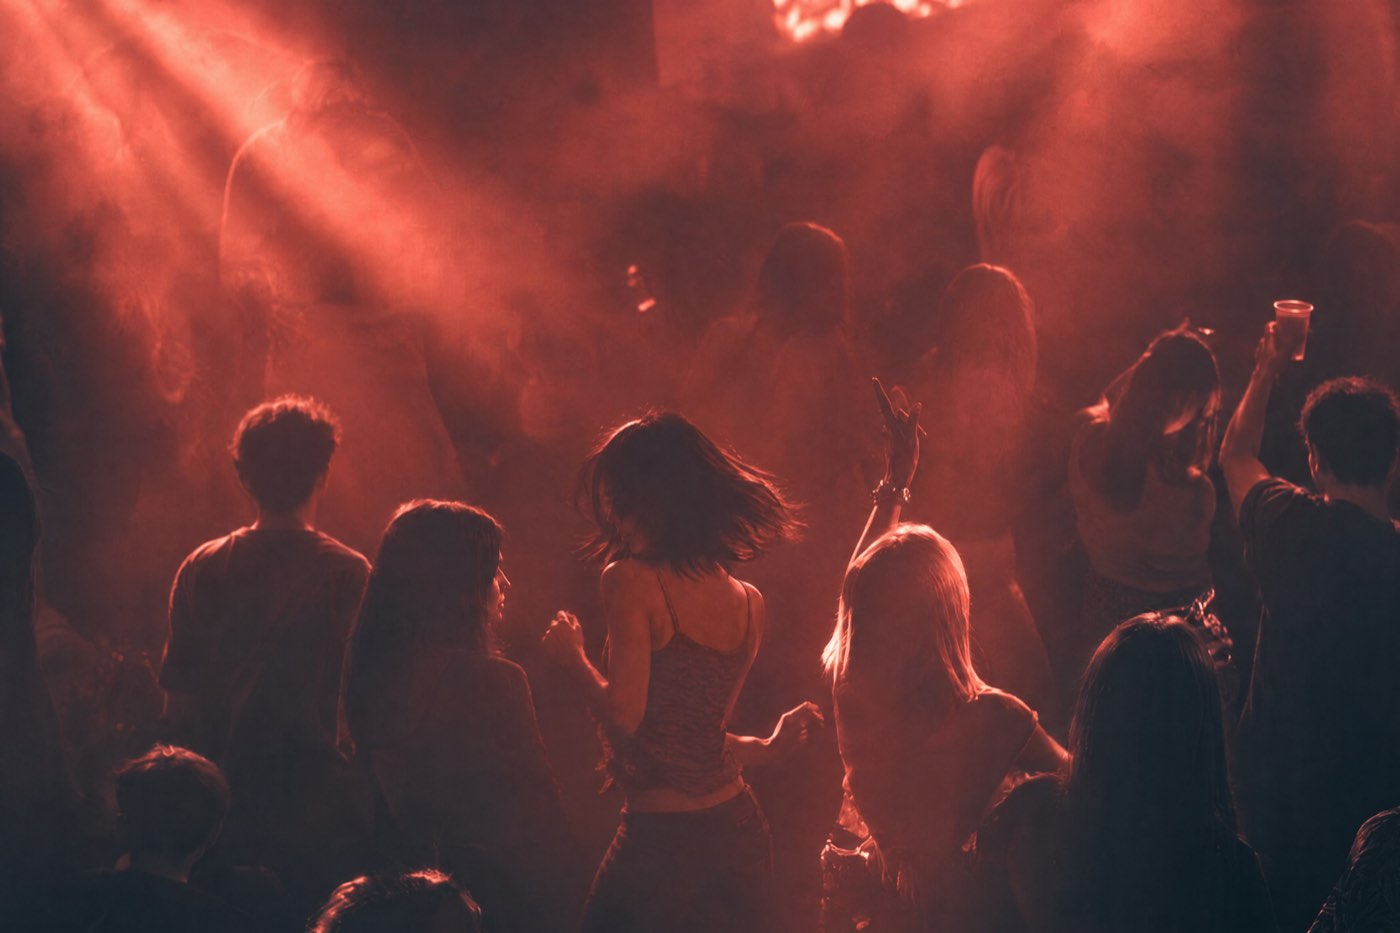
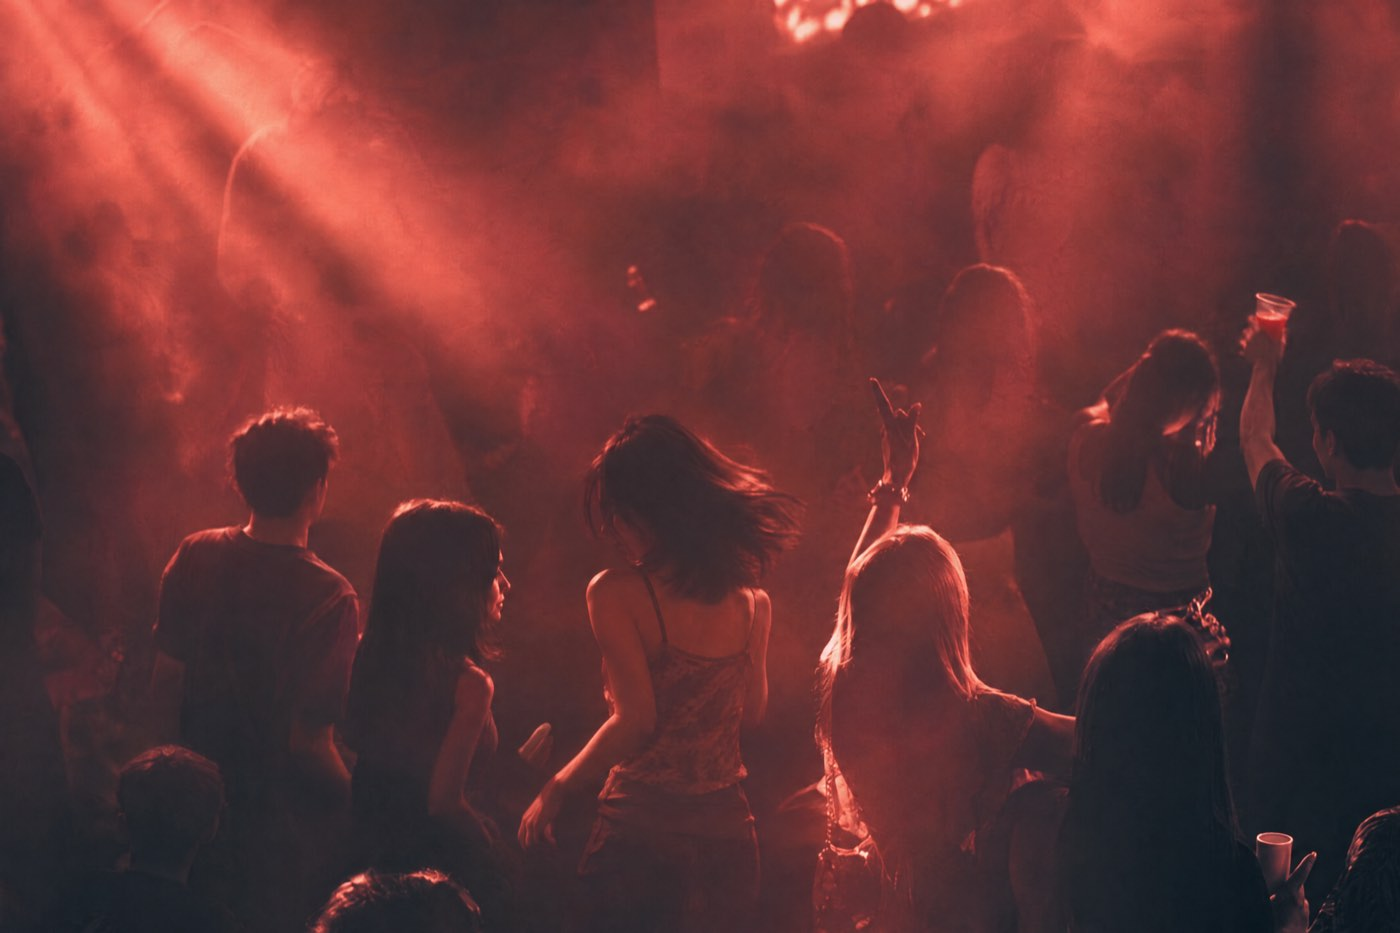
Auth cover option 1; like tip: 'Like profiles you respect'

diff --git a/src/translations/ja.js b/src/translations/ja.js
@@ -1168,7 +1168,7 @@ const ja = {
     unavailable: 'アシスタントは現在利用できません。後でもう一度お試しください。',
   },
   likeTip: {
-    likeArtist: 'ベニューやプロモーターに「いいね」すると、その活動へのリスペクトと、そこでプレイしたい気持ちが伝わります。相手に通知が届き、メッセージは不要です。',
+    likeArtist: 'リスペクトするプロフィールに「いいね」しましょう。プロモーターやベニューにとっては関心のサインになります。相手に通知が届き、メッセージは不要です。',
     likeBooker: 'アーティストに「いいね」すると興味が伝わり、チェックリストに残せます。年間プランなら、近くの日程が発表されたときに渡航アラートも届きます。',
     connectArtist: '「つながる」は短いメッセージ付きのリクエストです。承認されると、メッセージやピッチを送れます。',
     connectBooker: '「つながる」は短いメッセージ付きのリクエストです。承認されると、メッセージやオファーを送れます。',

diff --git a/src/translations/ko.js b/src/translations/ko.js
@@ -1168,7 +1168,7 @@ const ko = {
     unavailable: '어시스턴트를 지금은 사용할 수 없습니다. 나중에 다시 시도해 주세요.',
   },
   likeTip: {
-    likeArtist: '베뉴나 프로모터에게 좋아요를 누르면 그들의 활동을 높이 평가하고 그곳에서 공연할 의향이 있다는 뜻이 전해져요. 상대에게 알림이 가고, 메시지는 필요 없어요.',
+    likeArtist: '리스펙트하는 프로필에 좋아요를 눌러 보세요. 프로모터나 베뉴에게는 관심의 신호가 돼요. 상대에게 알림이 가고, 메시지는 필요 없어요.',
     likeBooker: '아티스트에게 좋아요를 누르면 관심이 전해지고 계속 지켜볼 수 있어요. 연간 플랜이면 근처 일정이 발표될 때 여행 알림도 받아요.',
     connectArtist: '연결은 짧은 메모와 함께 요청을 보내요. 수락되면 메시지와 피치를 보낼 수 있어요.',
     connectBooker: '연결은 짧은 메모와 함께 요청을 보내요. 수락되면 메시지와 오퍼를 보낼 수 있어요.',

diff --git a/src/translations/fr.js b/src/translations/fr.js
@@ -1168,7 +1168,7 @@ const fr = {
     unavailable: 'L\'assistant n\'est pas disponible pour le moment — réessayez plus tard.',
   },
   likeTip: {
-    likeArtist: 'Likez un lieu ou un promoteur pour montrer que vous appréciez son travail et que vous seriez partant pour y jouer. Il est notifié, pas besoin de message.',
+    likeArtist: 'Likez les profils que vous respectez. Pour un promoteur ou un lieu, c\'est un signe d\'intérêt : il est notifié, pas besoin de message.',
     likeBooker: 'Likez un artiste pour montrer votre intérêt et le garder en vue. Avec l\'offre Annuelle, vous recevez aussi une alerte voyage quand il annonce des dates près de chez vous.',
     connectArtist: 'Se connecter envoie une demande avec un court message. Une fois acceptée, vous pouvez écrire et proposer votre projet.',
     connectBooker: 'Se connecter envoie une demande avec un court message. Une fois acceptée, vous pouvez écrire et envoyer des offres.',

diff --git a/src/translations/es.js b/src/translations/es.js
@@ -1168,7 +1168,7 @@ const es = {
     unavailable: 'El asistente no está disponible ahora mismo; inténtalo más tarde.',
   },
   likeTip: {
-    likeArtist: 'Dale like a un venue o promotor para mostrar que valoras lo que hace y que estarías abierto a tocar allí. Recibe un aviso, sin necesidad de mensaje.',
+    likeArtist: 'Dale like a los perfiles que respetas. Para un promotor o venue es una señal de interés: recibe un aviso, sin necesidad de mensaje.',
     likeBooker: 'Dale like a un artista para mostrar tu interés y tenerlo en el radar. Con el plan Anual también recibes una alerta de viaje cuando anuncie fechas cerca de ti.',
     connectArtist: 'Conectar envía una solicitud con una nota breve. Cuando la acepten, podrás escribir y presentar tu propuesta.',
     connectBooker: 'Conectar envía una solicitud con una nota breve. Cuando la acepten, podrás escribir y enviar ofertas.',

diff --git a/src/translations/pt.js b/src/translations/pt.js
@@ -1168,7 +1168,7 @@ const pt = {
     unavailable: 'O assistente não está disponível agora — tente novamente mais tarde.',
   },
   likeTip: {
-    likeArtist: 'Curta uma casa ou promotor para mostrar que você valoriza o trabalho deles e toparia tocar lá. Eles são notificados, sem precisar de mensagem.',
+    likeArtist: 'Curta os perfis que você respeita. Para um promotor ou casa, é um sinal de interesse: eles são notificados, sem precisar de mensagem.',
     likeBooker: 'Curta um artista para mostrar interesse e mantê-lo no radar. No plano Anual você também recebe um alerta de viagem quando ele anunciar datas perto de você.',
     connectArtist: 'Conectar envia um pedido com uma nota curta. Depois de aceito, você pode conversar e apresentar sua proposta.',
     connectBooker: 'Conectar envia um pedido com uma nota curta. Depois de aceito, você pode conversar e enviar ofertas.',

diff --git a/src/translations/it.js b/src/translations/it.js
@@ -1168,7 +1168,7 @@ const it = {
     unavailable: 'L\'assistente non è disponibile al momento — riprova più tardi.',
   },
   likeTip: {
-    likeArtist: 'Metti like a un locale o promoter per dire che apprezzi quello che fa e che saresti aperto a suonare lì. Riceve una notifica, senza bisogno di messaggi.',
+    likeArtist: 'Metti like ai profili che rispetti. Per un promoter o un locale è un segnale di interesse: riceve una notifica, senza bisogno di messaggi.',
     likeBooker: 'Metti like a un artista per mostrare interesse e tenerlo d\'occhio. Con l\'Annuale ricevi anche un avviso viaggio quando annuncia date vicino a te.',
     connectArtist: 'Connetti invia una richiesta con una breve nota. Una volta accettata, puoi scrivere e proporti.',
     connectBooker: 'Connetti invia una richiesta con una breve nota. Una volta accettata, puoi scrivere e inviare offerte.',

diff --git a/src/translations/zh.js b/src/translations/zh.js
@@ -1168,7 +1168,7 @@ const zh = {
     unavailable: '助手当前不可用，请稍后再试。',
   },
   likeTip: {
-    likeArtist: '点赞场地或主办方，表示你欣赏他们的工作，也愿意在那里演出。对方会收到通知，无需发消息。',
+    likeArtist: '为你欣赏的档案点赞。对主办方或场地来说，这是一种兴趣的信号：对方会收到通知，无需发消息。',
     likeBooker: '点赞艺人表示你的兴趣，并持续关注。年度会员还会在对方公布你附近的日期时收到巡演提醒。',
     connectArtist: '「连接」会发送一条附短信的请求。对方接受后，你就可以发消息和自荐。',
     connectBooker: '「连接」会发送一条附短信的请求。对方接受后，你就可以发消息和发出邀约。',

diff --git a/src/translations/en.js b/src/translations/en.js
@@ -1168,7 +1168,7 @@ const en = {
     unavailable: 'The assistant isn\'t available right now — please try again later.',
   },
   likeTip: {
-    likeArtist: 'Like a venue or promoter to show you rate what they do and you\'re open to playing there. They\'re notified, no message needed.',
+    likeArtist: 'Like profiles you respect. To a promoter or venue it\'s a sign of interest: they\'re notified, no message needed.',
     likeBooker: 'Like an artist to show your interest and keep them on your radar. On Yearly you also get a travel alert when they announce dates near you.',
     connectArtist: 'Connect sends a request with a short note. Once accepted, you can message and pitch.',
     connectBooker: 'Connect sends a request with a short note. Once accepted, you can message and send offers.',
